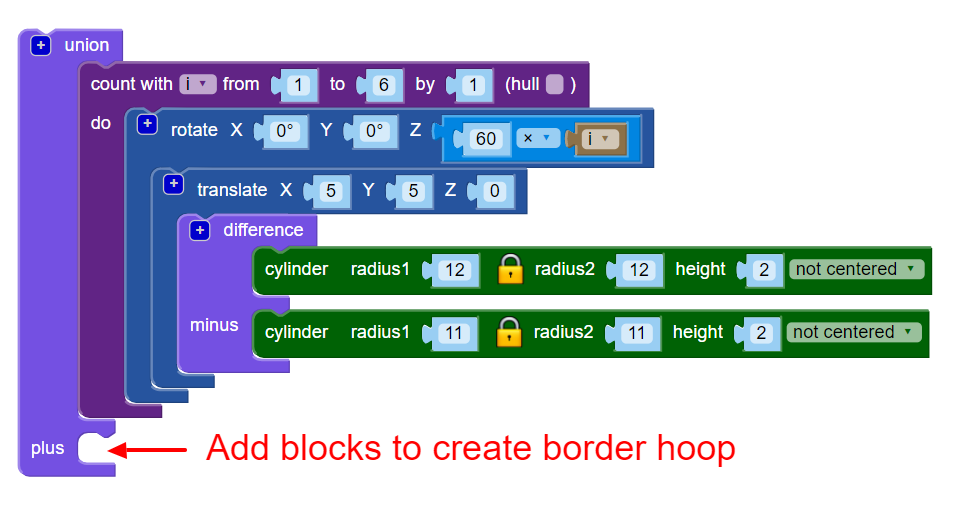
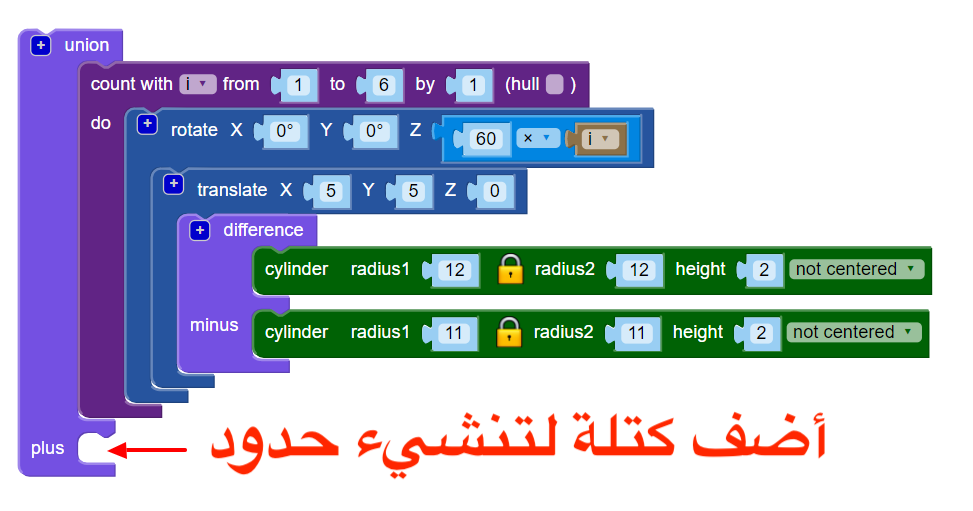
Correct Arabic

Changed region(s): [[0.2158, 0.7926, 0.8633, 0.9393]]

diff --git a/ar-SA/step_3.md b/ar-SA/step_3.md
@@ -6,7 +6,7 @@
 
 في التصميم النهائي ، لا يوجد طوق مركزي: حيث يتم نقل جميع الأطواق خارج المركز.
 
-أولاً ، `ترجمة`{:class="blockscadtransforms"} (تحريك) الحلقة الأولى في الموضع.
+أولاً ، ترجم `translate`{:class="blockscadtransforms"} (تحريك) الحلقة الأولى في الموضع.
 
 ![لقطة الشاشة](images/pendant-translate.png)
 
@@ -16,7 +16,7 @@
 
 تحتاج إلى نسخ متعددة من هذا الطوق ، تدور حول المركز. أولاً ، قم بإنشاء ثلاث أطواق متساوية المسافات:
 
-أضف حلقة `العد `{:class="blockscadloops"} لإنشاء ثلاث أطواق. لمسافة الاطواق ، أضف كتلة `تدوير `{:class="blockscadtransforms"} بين الحلقة `العد` والكتلة `ترجمة`. `العد` يضبط المتغير `i` من 1 إلى 3. `تدوير` ينقل كل حلقة بمقدار `120 × i` درجات، بحيث توزع هذه الحلقات الثلاث بالتساوي حول 360 درجة من الدائرة (360 / 3 = 120).
+أضف حلقة ` count `{:class="blockscadloops"} لإنشاء ثلاث أطواق. لمسافة الاطواق ، أضف كتلة ` rotate `{:class="blockscadtransforms"} بين الحلقة ` count ` والكتلة ` translate `. ` Count ` يضبط المتغير `i` من 1 إلى 3. ` Rotate ` ينقل كل حلقة بمقدار `120 × i` درجات، بحيث توزع هذه الحلقات الثلاث بالتساوي حول 360 درجة من الدائرة (360 / 3 = 120).
 
 ![لقطة الشاشة](images/pendant-3-hoops.png)
 
@@ -29,7 +29,7 @@
 --- hints ---
  --- hint ---
 
-تغيير حلقة `العد `{:class="blockscadloops"} بحيث تعمل ست مرات بدلاً من ثلاث مرات. ستحتاج الأطواق الست إلى مسافات متساوية حول 360 درجة.
+غير الحلقة ` count `{:class="blockscadloops"} بحيث تعمل ست مرات بدلاً من ثلاث مرات. ستحتاج الأطواق الست إلى مسافات متساوية حول 360 درجة.
 
 --- /hint --- --- hint ---
 

diff --git a/ar-SA/step_4.md b/ar-SA/step_4.md
@@ -15,19 +15,19 @@
 --- hints ---
  --- hint ---
 
-استخدم الكتل البرمجية `الاسطوانية` و `اختلاف` لإنشاء الطوق.
+استخدم الكتل البرمجية `cylinder` و `difference` لإنشاء الطوق.
 
 يبلغ نصف القطر لكل الأطواق الستة 12 مم ، لذا يجب أن تكون الحدود الأسطوانة التي تصنعها أكبر من ذلك. يمكنك محاولة ضبط نصف القطر إلى 24 مم.
 
-لصنع طوق، نصف قطر الاسطوانة الثانية``في بلوك`مختلف`يجب أن يكون أصغر من نصف قطر الأولى`اسطوانة`.
+لصنع طوق، نصف قطر الاسطوانة الثانية `` في بلوك `مختلف` يجب أن يكون أصغر من نصف قطر الأولى `اسطوانة `.
 
 --- /hint --- --- hint ---
 
-اضبط حجم `الأسطو`انات حتى يلمس الطوق الحدودي الحواف الخارجية للأطواق الداخلية الستة.
+اضبط حجم الأسطوانات ` ` حتى يلمس الطوق الحدودي الحواف الخارجية للأطواق الداخلية الستة.
 
 --- /hint --- --- hint ---
 
-نصف قطر يجب أن يكون حول `20`. (في المقدمة، قالت إن القطر النهائي سيكون 40 ملليمتراً!)
+نصف قطر يجب أن يكون تقريبا `20`. (في المقدمة، قالت إن القطر النهائي سيكون 40 ملليمتراً!)
 
 ![لقطة الشاشة](images/pendant-border.png)
 
@@ -39,4 +39,4 @@
 
 الرياضيات مفيدة جداً عندما تحتاج إلى أن تكون دقيقاً. ولكن من الجيد فقط تغيير الأشياء حتى تحصل على النتيجة التي تحتاجها.
 
---- /hint ------ /hints --- --- /task ---
+--- /hint --- --- /hints --- --- /task ---

diff --git a/ar-SA/step_2.md b/ar-SA/step_2.md
@@ -12,17 +12,17 @@
 
 --- /task --- --- task ---
 
-إنشاء `اسطوانة` مع نصف قطر `12` وارتفاع `2` (الوحدة هنا مليمتر).
+إنشاء اسطوانة ` cylinder ` مع نصف قطر `12` وارتفاع `2` (الوحدة هنا مليمتر).
 
 ![لقطة الشاشة](images/pendant-cylinder.png)
 
-`الاسطوانات` يتم توسيطها تلقائيًا على طول محوري X و Y. أختر `غير مركزي` بحيث تقعد القلادة على السطح. (وهذا يعني أن قيمة محور Z أكبر من 0).
+`الاسطوانات ` يتم توسيطها تلقائيًا على طول محوري X و Y. أختر `not centered ` بحيث تجلس القلادة على السطح. (وهذا يعني أن قيمة محور Z أكبر من 0).
 
 انقر على الزر **Render** بعد كل تغيير في الكود الخاص بك لمشاهدة النتائج.
 
 --- /task --- --- task ---
 
-الآن، استخدم `difference`{:class="blockscadsetops"} لإزالة اسطوانة أصغر `من المركز` من المركز. هذا ينشئ الطوق:
+الان استخدم `difference`{:class="blockscadsetops"} لازالة `اسطوانة` اصغر من المنتصف. هذا ينشئ الطوق:
 
 ![لقطة الشاشة](images/pendant-hoop.png)
 

diff --git a/ar-SA/step_1.md b/ar-SA/step_1.md
@@ -30,7 +30,7 @@ title: ما الذي ستحتاج إليه
 
 ### البرمجيات
 
-+ يمكن إكمال هذا المشروع في متصفح ويب باستخدام BlocksCAD [blockscad3d.com/editor/](https://www.blockscad3d.com/editor){:target="_blank"}
++ يمكن إكمال هذا المشروع في متصفح ويب باستخدام BlocksCAD [blockscad3d.com/editor/](https://www.blockscad3d.com/editor){: target = "_ blank"}
 
 --- /collapse ---
 
@@ -39,7 +39,7 @@ title: ما الذي ستحتاج إليه
 title: ما الذي ستتعلمه
 ---
 
-+ كيفية استخدام حلقات تكرار `العد` لإنشاء أنماط هندسية
++ كيفية استخدام حلقات تكرار `العد ` لإنشاء أنماط هندسية
 + كيفية استخدام كتل `مختلف` لإنشاء الاطواق من الاسطوانات
 
 --- /collapse ---

diff --git a/ar-SA/step_5.md b/ar-SA/step_5.md
@@ -16,7 +16,7 @@
 
 --- /task --- --- task ---
 
-أضف كتلة `تدوير `{:class="blockscadtransforms"} لتحريك الأطواق الداخلية بحيث يتركز الطوق المعلق على واحدة من الفجوات بينها.
+أضف كتلة ` rotate `{:class="blockscadtransforms"} لتحريك الأطواق الداخلية بحيث يتركز الطوق المعلق على واحدة من الفجوات بينها.
 
 ![لقطة الشاشة](images/pendant-hang-rotate.png)
 
